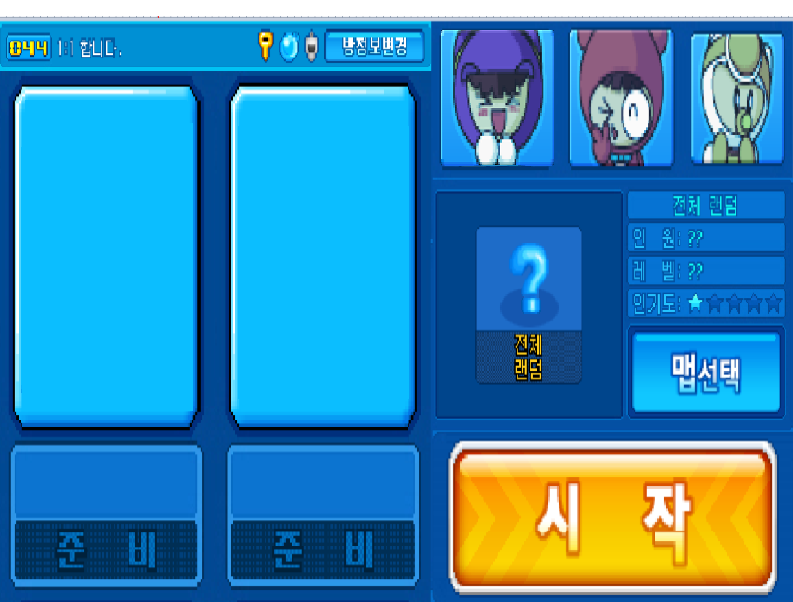
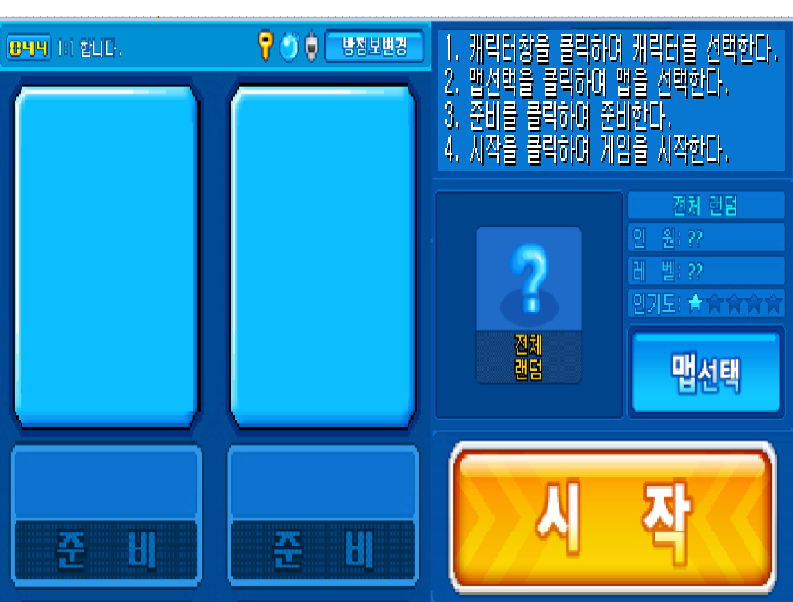
도움말추가 readyframe만 바꾸면됨

Changed region(s): [[0.5448, 0.0299, 0.9987, 0.299]]

diff --git a/CrazyArcade/src/BoomJudge.java b/CrazyArcade/src/BoomJudge.java
@@ -1,4 +1,9 @@
+import java.io.BufferedInputStream;
+import java.io.FileInputStream;
+
 import javax.swing.JOptionPane;
+
+import javazoom.jl.player.Player;
 
 public class BoomJudge {
 	public static int[][] map_size = new int[13][13];//맵 사이즈 13*13
@@ -153,7 +158,6 @@ public class BoomJudge {
 				}
 			}
 		}
-		
 	}
 	
 	public static void item_check() { //추가 및 체크 함수
@@ -163,41 +167,59 @@ public class BoomJudge {
 					previous_map_size[map_y][map_x] = 1;
 					map_size[map_y][map_x] = 1;
 					character1_bombsizeup+=1;
+					System.out.println("p1 물풍선추가");
+					/*오류 수정용 print*/
 				}
 				if((previous_map_size[map_y][map_x] == 9) && (map_size[map_y][map_x] == 2)) {//player2 물풍선 추가 아이템 흭득 경우
 					previous_map_size[map_y][map_x] = 2;
 					map_size[map_y][map_x] = 2;
 					character2_bombsizeup+=1;
+					System.out.println("p2 물풍선 추가");
+					/*오류 수정용 print*/
 				}
 				if((previous_map_size[map_y][map_x] == 12) && (map_size[map_y][map_x] == 1)) {//player1 속도 증가 아이템 흭득 경우
 					previous_map_size[map_y][map_x] = 1;
 					map_size[map_y][map_x] = 1;
 					character1_speedup+=1;
+					System.out.println("p1 스피드 1업");
+					/*오류 수정용 print*/
 				}
 				if((previous_map_size[map_y][map_x] == 12) && (map_size[map_y][map_x] == 2)) {//player2 속도 증가 아이템 흭득 경우
 					previous_map_size[map_y][map_x] = 2;
 					map_size[map_y][map_x] = 2;
 					character2_speedup+=1;
+					System.out.println(character2_speedup);
+					System.out.println("p2 스피드 1업");
+					/*오류 수정용 print*/
 				}			
 				if((previous_map_size[map_y][map_x] == 15) && (map_size[map_y][map_x] == 1)) {//player1 물풍선 범위 증가 아이템 흭득 경우
 					previous_map_size[map_y][map_x] = 1;
 					map_size[map_y][map_x] = 1;
 					character1_stream+=1;
+					System.out.println("p1 범위 1업");
+					/*오류 수정용 print*/
 				}
 				if((previous_map_size[map_y][map_x] == 15) && (map_size[map_y][map_x] == 2)) {//player2 물풍선 범위 증가 아이템 흭득 경우
 					previous_map_size[map_y][map_x] = 2;
 					map_size[map_y][map_x] = 2;
 					character2_stream+=1;
+					System.out.println("p2 범위 1업");
+					/*오류 수정용 print*/
 				}
 				if((previous_map_size[map_y][map_x] == 18) && (map_size[map_y][map_x] == 1)) {//player1 속도 증가(레드데빌) 아이템 흭득 경우
 					previous_map_size[map_y][map_x] = 1;
 					map_size[map_y][map_x] = 1;
 					character1_speedup+=3;
+					System.out.println("p1 스피드 3업");
+					/*오류 수정용 print*/
 				}
 				if((previous_map_size[map_y][map_x] == 18) && (map_size[map_y][map_x] == 2)) {//player2 속도 증가(레드데빌) 아이템 흭득 경우
 					previous_map_size[map_y][map_x] = 2;
 					map_size[map_y][map_x] = 2;
 					character2_speedup+=3;
+					System.out.println(character2_speedup);
+					System.out.println("p2 스피드 3업");
+					/*오류 수정용 print*/
 				}
 				if((previous_map_size[map_y][map_x] == 21) && (map_size[map_y][map_x] == 1)) {//player1 속도 감소(퍼플데빌) 아이템 흭득 경우
 					previous_map_size[map_y][map_x] = 1;
@@ -206,6 +228,8 @@ public class BoomJudge {
 					if(character1_speedup<0) {
 						character1_speedup = 0;
 					}
+					System.out.println("p1 스피드 감소");
+					/*오류 수정용 print*/
 				}
 				if((previous_map_size[map_y][map_x] == 21) && (map_size[map_y][map_x] == 2)) {//player2 속도 감소(퍼플데빌) 아이템 흭득 경우
 					previous_map_size[map_y][map_x] = 2;
@@ -214,31 +238,42 @@ public class BoomJudge {
 					if(character2_speedup<0) {
 						character2_speedup = 0;
 					}
+					System.out.println("p2 스피드 감소");
+					/*오류 수정용 print*/
 				}
 				if((previous_map_size[map_y][map_x] == 24) && (map_size[map_y][map_x] == 1)) {//player1 핵풍선 아이템 흭득 경우
 					previous_map_size[map_y][map_x] = 1;
 					map_size[map_y][map_x] = 1;
 					character1_stream+=5;
+					System.out.println("p1 범위 5업");
+					/*오류 수정용 print*/
 				}
 				if((previous_map_size[map_y][map_x] == 24) && (map_size[map_y][map_x] == 2)) {//player2 핵풍선 아이템 흭득 경우
 					previous_map_size[map_y][map_x] = 2;
 					map_size[map_y][map_x] = 2;
 					character2_stream+=5;
+					System.out.println("p2 범위 5업");
+					/*오류 수정용 print*/
 				}				
 				if((previous_map_size[map_y][map_x] == 27) && (map_size[map_y][map_x] == 1)) {//player1 슈퍼맨 아이템 흭득 경우
 					previous_map_size[map_y][map_x] = 1;
 					map_size[map_y][map_x] = 1;
 					character1_stream+=3;
-					character2_speedup+=3;
+					character1_speedup+=3;
+					System.out.println("p1 범위 3업");
+					System.out.println("p1 스피드 3업");
+					/*오류 수정용 print*/
 				}
 				if((previous_map_size[map_y][map_x] == 27) && (map_size[map_y][map_x] == 2)) {//player2 슈퍼맨 아이템 흭득 경우
 					previous_map_size[map_y][map_x] = 2;
 					map_size[map_y][map_x] = 2;
 					character2_stream+=3;
 					character2_speedup+=3;
+					System.out.println("p2 범위 3업");
+					System.out.println("p2 스피드 3업");
+					/*오류 수정용 print*/
 				}
 			}
 		}
 	}
-	
 }

diff --git a/CrazyArcade/src/WaterBalloon.java b/CrazyArcade/src/WaterBalloon.java
@@ -128,7 +128,8 @@ public class WaterBalloon {
                 }
             }
         }.start();
-	}	
+	}		
+	
 	public void makeWaterBalloon(int x, int y, int bombSize, int waterballoonmax_plus) {
 		this.bombSize = bombSize;
 		if (this.waterballoonmax_plus != waterballoonmax_plus) {
@@ -193,7 +194,7 @@ public class WaterBalloon {
 						if(boomballoonYqueue.peek()-bombSize-plusbombsize>=0) {
 							BoomJudge.map_size[boomballoonYqueue.peek()-bombSize-plusbombsize][boomballoonXqueue.peek()] = 4;
 						}
-						bgplay();
+						bgplay();						
 					}
 					waterballoonmax +=1;
 			    }
